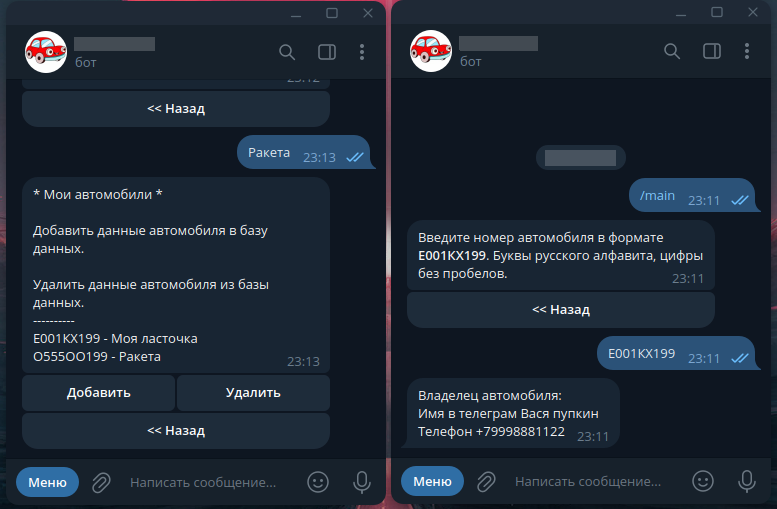
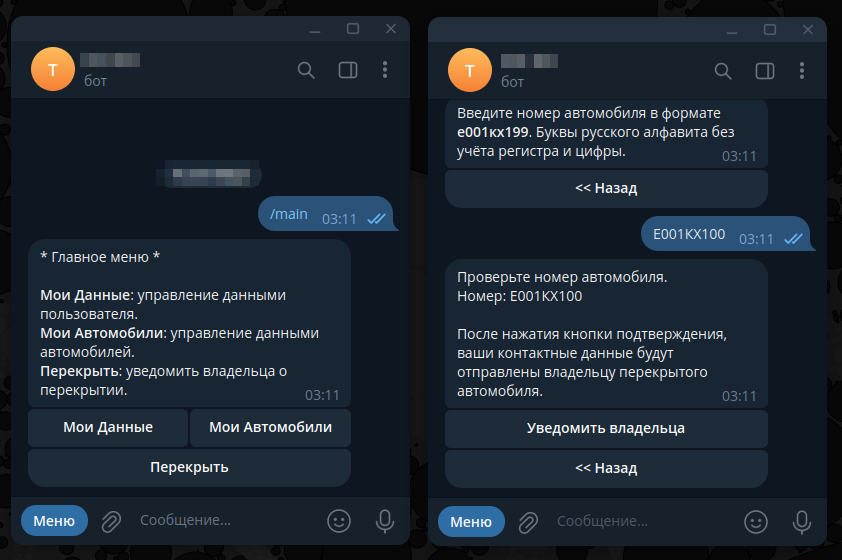
Dev (#46)
* feat: delete search by number

* docs:

* chore:

diff --git a/src/bot_car_number/presentation/misc/msg.py b/src/bot_car_number/presentation/misc/msg.py
@@ -15,7 +15,6 @@ MAIN_MSG = (
     f"\n{hbold(btn.USER_MENU_TXT)}: управление данными пользователя."
     f"\n{hbold(btn.AUTO_MENU_TXT)}: управление данными автомобилей."
     f"\n{hbold(btn.BLOCK_AUTO_TXT)}: уведомить владельца о перекрытии."
-    f"\n{hbold(btn.SEARCH_TXT)}: поиск владельца по номеру автомобиля."
 )
 MAIN_NO_DATA_MSG = (
     f"Для получения доступа, добавьте свои данные в меню - "
@@ -32,7 +31,6 @@ USER_CONTACT_MSG = (
 USER_WRONG_MSG = "Вы отправили данные другого пользователя!"
 USER_ADD_MSG = "Ваши контактные данные добавлены."
 USER_DELETE_MSG = "Ваши данные удалены."
-USER_NOT_FOUND_MSG = "Пользователь не найден."
 USER_DEL_CONFIRM_MSG = (
     "После нажатия кнопки подтверждения, ваши контактные данные и данные "
     "всех ваших автомобилей будут удалены.\n"
@@ -52,7 +50,7 @@ AUTO_ENTER_NUMBER_MSG = (
     "Буквы русского алфавита без учёта регистра и цифры."
 )
 AUTO_EXIST_MSG = (
-    "Автомобиль с таким номером уже существует!" f"\n\n{AUTO_ENTER_NUMBER_MSG}"
+    "Невозможно добавить автомобиль с таким номером!" f"\n\n{AUTO_ENTER_NUMBER_MSG}"
 )
 AUTO_FORMAT_ERR_MSG = (
     f"Формат номера не соответствует шаблону!\n\n{AUTO_ENTER_NUMBER_MSG}"
@@ -80,12 +78,11 @@ AUTO_NOT_FOUND_MSG = (
     "Автомобиль с таким номером не найден!" f"\n\n{AUTO_ENTER_NUMBER_MSG}"
 )
 AUTO_NOT_YOURS_MSG = (
-    "Невозможно удалить данный номер.\n" f"\n{AUTO_ENTER_NUMBER_MSG}"
+    "Невозможно удалить данный автомобиль.\n" f"\n{AUTO_ENTER_NUMBER_MSG}"
 )
 
 
 # SEARCH
-OWNER_DATA_MSG = "Контактные данные владельца."
 SEARCH_ACCESS_DENIED_MSG = (
     "Вы превысили количество запросов, повторите попытку позднее."
 )

diff --git a/src/bot_car_number/di/providers.py b/src/bot_car_number/di/providers.py
@@ -43,13 +43,14 @@ from bot_car_number.application.use_case.check_search_access import (
 )
 from bot_car_number.application.use_case.delete_auto import DeleteAuto
 from bot_car_number.application.use_case.delete_user import DeleteUser
+from bot_car_number.application.use_case.get_auto import GetAuto
 from bot_car_number.application.use_case.get_auto_for_delete import (
     GetAutoForDelete,
 )
-from bot_car_number.application.use_case.get_auto_owner import GetAutoOwner
 from bot_car_number.application.use_case.get_autos_by_user_id import (
     GetAutosByUserId,
 )
+from bot_car_number.application.use_case.get_user import GetUser
 from bot_car_number.application.use_case.get_user_by_telegram_id import (
     GetUserByTelegramId,
 )
@@ -115,6 +116,7 @@ def provide_db_gateways(provider: Provider) -> None:
 
 def provide_handlers_command(provider: Provider) -> None:
     provider.provide(source=AddUser, scope=Scope.REQUEST)
+    provider.provide(source=GetUser, scope=Scope.REQUEST)
     provider.provide(source=GetUserByTelegramId, scope=Scope.REQUEST)
     provider.provide(source=BlockUser, scope=Scope.REQUEST)
     provider.provide(source=DeleteUser, scope=Scope.REQUEST)
@@ -123,9 +125,9 @@ def provide_handlers_command(provider: Provider) -> None:
     provider.provide(source=CheckUserAutosCount, scope=Scope.REQUEST)
     provider.provide(source=AddAutoNumber, scope=Scope.REQUEST)
     provider.provide(source=AddAutoModel, scope=Scope.REQUEST)
+    provider.provide(source=GetAuto, scope=Scope.REQUEST)
     provider.provide(source=GetAutoForDelete, scope=Scope.REQUEST)
     provider.provide(source=AddAuto, scope=Scope.REQUEST)
     provider.provide(source=GetAutosByUserId, scope=Scope.REQUEST)
     provider.provide(source=DeleteAuto, scope=Scope.REQUEST)
-    provider.provide(source=GetAutoOwner, scope=Scope.REQUEST)
     provider.provide(source=CheckSearchAccess, scope=Scope.REQUEST)

diff --git a/src/bot_car_number/presentation/handlers/block_auto.py b/src/bot_car_number/presentation/handlers/block_auto.py
@@ -15,7 +15,8 @@ from bot_car_number.application.use_case.add_search_attempt import (
 from bot_car_number.application.use_case.check_search_access import (
     CheckSearchAccess,
 )
-from bot_car_number.application.use_case.get_auto_owner import GetAutoOwner
+from bot_car_number.application.use_case.get_auto import GetAuto
+from bot_car_number.application.use_case.get_user import GetUser
 from bot_car_number.presentation.keyboards.inline_keyboard import (
     back_kb,
     confirm_kb,
@@ -60,7 +61,8 @@ async def enter_number(
     state: FSMContext,
     user: UserDTO,
     check_search_access: FromDishka[CheckSearchAccess],
-    get_auto_owner: FromDishka[GetAutoOwner],
+    get_auto_by_number: FromDishka[GetAuto],
+    get_auto_owner: FromDishka[GetUser],
     add_search_attempt: FromDishka[AddSearchAttempt],
 ) -> None:
     if not await check_search_access(tg_id=user.tg_id):
@@ -72,7 +74,8 @@ async def enter_number(
         return
 
     try:
-        owner = await get_auto_owner(number=message.text)
+        auto = await get_auto_by_number(number=message.text)
+        owner = await get_auto_owner(user_id=auto.user_id)
     except AutoNumberValidationError:
         await message.answer(
             text=msg.AUTO_FORMAT_ERR_MSG,
@@ -90,7 +93,7 @@ async def enter_number(
         )
     else:
         await message.answer(
-            text=msg.AUTO_CHECK_NUMBER_MSG.format(message.text.upper()),
+            text=msg.AUTO_CHECK_NUMBER_MSG.format(auto.number),
             reply_markup=confirm_kb(
                 btn.BLOCK_AUTO_CONFIRM_TXT,
                 cmd.BLOCK_AUTO_CONFIRM,

diff --git a/src/bot_car_number/application/use_case/get_auto.py b/src/bot_car_number/application/use_case/get_auto.py
@@ -1,22 +1,18 @@
 import logging
 
 from bot_car_number.application.dto.auto import AutoDTO
-from bot_car_number.application.dto.user import UserDTO
-from bot_car_number.application.exceptions import (
-    AutoNotFoundError,
-    AutoOwnerError,
-)
+from bot_car_number.application.exceptions import AutoNotFoundError
 from bot_car_number.application.interfaces.auto import AutoGateway
 from bot_car_number.value_objects.auto_number import AutoNumber
 
 logger = logging.getLogger(__name__)
 
 
-class GetAutoForDelete:
+class GetAuto:
     def __init__(self, auto_gateway: AutoGateway) -> None:
         self.auto_gateway = auto_gateway
 
-    async def __call__(self, number: str, user: UserDTO) -> AutoDTO:
+    async def __call__(self, number: str) -> AutoDTO:
         auto_number = AutoNumber(value=number)
         auto = await self.auto_gateway.get_auto_by_number(
             number=auto_number.value
@@ -26,12 +22,5 @@ class GetAutoForDelete:
                 f"[UC] Auto not found | [auto_number: {auto_number.value}]"
             )
             raise AutoNotFoundError()
-
-        if user.id != auto.user_id:
-            logger.warning(
-                f"[UC] Access denied. Auto owner is not the current user | "
-                f"[user_id: {user.id}, auto_id: {auto.id}] "
-            )
-            raise AutoOwnerError()
 
         return auto

diff --git a/src/bot_car_number/adapters/postgres/gateways/auto.py b/src/bot_car_number/adapters/postgres/gateways/auto.py
@@ -28,7 +28,7 @@ class DatabaseAutoGateway(AutoGateway):
         result = await self.session.execute(stmt)
         await self.session.commit()
         auto_id = result.scalar_one()
-        logger.info(f"[DB] Add auto | [auto.id: {auto_id}]")
+        logger.info(f"[DB] Add auto | [auto_id: {auto_id}]")
 
     async def get_auto_by_number(self, number: str) -> AutoDTO | None:
         stmt = select(self.model).filter_by(number=number)
@@ -57,7 +57,7 @@ class DatabaseAutoGateway(AutoGateway):
             for auto in autos_data
         ]
         logger.info(
-            f"[DB] Get autos by user id | [user.id: {user_id}, "
+            f"[DB] Get autos by user id | [user_id: {user_id}, "
             f"len_auto_list: {len(autos)}]"
         )
         return autos
@@ -66,4 +66,4 @@ class DatabaseAutoGateway(AutoGateway):
         stmt = delete(self.model).filter_by(id=id)
         await self.session.execute(stmt)
         await self.session.commit()
-        logger.info(f"[DB] Delete auto | [auto.id: {id}]")
+        logger.info(f"[DB] Delete auto | [auto_id: {id}]")

diff --git a/src/bot_car_number/adapters/postgres/gateways/user.py b/src/bot_car_number/adapters/postgres/gateways/user.py
@@ -29,7 +29,7 @@ class DatabaseUserGateway(UserGateway):
         result = await self.session.execute(stmt)
         await self.session.commit()
         db_obj = result.scalar_one()
-        logger.info(f"[DB] Add user | [user.id: {db_obj}]")
+        logger.info(f"[DB] Add user | [user_id: {db_obj}]")
 
     async def get_user(self, id: int) -> UserDTO | None:
         stmt = select(self.model).filter_by(id=id)
@@ -69,4 +69,4 @@ class DatabaseUserGateway(UserGateway):
         stmt = delete(self.model).filter_by(id=id)
         await self.session.execute(stmt)
         await self.session.commit()
-        logger.info(f"[DB] Delete user | [id: {id}]")
+        logger.info(f"[DB] Delete user | [user_id: {id}]")

diff --git a/src/bot_car_number/application/use_case/get_user.py b/src/bot_car_number/application/use_case/get_user.py
@@ -1,0 +1,20 @@
+import logging
+
+from bot_car_number.application.dto.user import UserDTO
+from bot_car_number.application.exceptions import UserNotFoundError
+from bot_car_number.application.interfaces.user import UserGateway
+
+logger = logging.getLogger(__name__)
+
+
+class GetUser:
+    def __init__(self, user_gateway: UserGateway) -> None:
+        self.user_gateway = user_gateway
+
+    async def __call__(self, user_id: int) -> UserDTO:
+        user = await self.user_gateway.get_user(user_id)
+        if user is None:
+            logger.warning(f"[UC] User not found | [user_id: {user_id}]")
+            raise UserNotFoundError()
+
+        return user

diff --git a/src/bot_car_number/value_objects/auto_number.py b/src/bot_car_number/value_objects/auto_number.py
@@ -15,9 +15,11 @@ class AutoNumber:
     value: str = field(init=False)
 
     def __init__(self, value: str) -> None:
+        normalized_value = value.upper().replace(" ", "")
         pattern = re.compile(r"^[А-Я]\d{3}[А-Я]{2}\d{2,3}$", re.UNICODE)
-        normalized_value = value.upper()
         if not pattern.match(normalized_value):
-            logger.warning(f"[VO] Auto Number Validation Error | [{value}]")
+            logger.warning(
+                f"[VO] Auto Number Validation Error | [auto_number: {value}]"
+            )
             raise AutoNumberValidationError()
         object.__setattr__(self, "value", normalized_value)

diff --git a/src/bot_car_number/__main__.py b/src/bot_car_number/__main__.py
@@ -15,7 +15,6 @@ from bot_car_number.presentation.handlers.block_auto import (
     router as block_router,
 )
 from bot_car_number.presentation.handlers.menu import router as menu_router
-from bot_car_number.presentation.handlers.search import router as search_router
 from bot_car_number.presentation.handlers.user import router as user_router
 from bot_car_number.presentation.middlewares.private_check import (
     PrivateCheckMiddleware,
@@ -45,7 +44,6 @@ async def main():
         menu_router,
         user_router,
         auto_router,
-        search_router,
         block_router,
     )
 

diff --git a/src/bot_car_number/application/use_case/add_auto_number.py b/src/bot_car_number/application/use_case/add_auto_number.py
@@ -13,9 +13,11 @@ class AddAutoNumber:
 
     async def __call__(self, number: str) -> str:
         auto_number = AutoNumber(value=number)
-        if await self.auto_gateway.get_auto_by_number(number=auto_number.value):
+        if await self.auto_gateway.get_auto_by_number(
+            number=auto_number.value
+        ):
             logger.warning(
-                f"[UC] Auto already exists | [auto: {auto_number.value}]"
+                f"[UC] Auto already exists | [auto_number: {auto_number.value}]"
             )
             raise AutoAlreadyExistsError()
 

diff --git a/src/bot_car_number/presentation/keyboards/inline_keyboard.py b/src/bot_car_number/presentation/keyboards/inline_keyboard.py
@@ -17,12 +17,10 @@ def main_kb() -> InlineKeyboardMarkup:
     user_menu_btn = get_btn(btn.USER_MENU_TXT, cmd.USER)
     auto_menu_btn = get_btn(btn.AUTO_MENU_TXT, cmd.AUTO_MENU)
     block_auto_btn = get_btn(btn.BLOCK_AUTO_TXT, cmd.BLOCK_AUTO)
-    search_btn = get_btn(btn.SEARCH_TXT, cmd.SEARCH)
     return InlineKeyboardMarkup(
         inline_keyboard=[
             [user_menu_btn, auto_menu_btn],
             [block_auto_btn],
-            [search_btn],
         ]
     )
 

diff --git a/src/bot_car_number/presentation/handlers/auto.py b/src/bot_car_number/presentation/handlers/auto.py
@@ -199,12 +199,7 @@ async def enter_number_for_delete(
             text=msg.AUTO_FORMAT_ERR_MSG,
             reply_markup=BACK_KB,
         )
-    except AutoNotFoundError:
-        await message.answer(
-            text=msg.AUTO_NOT_FOUND_MSG,
-            reply_markup=BACK_KB,
-        )
-    except AutoOwnerError:
+    except (AutoOwnerError, AutoNotFoundError):
         await message.answer(
             text=msg.AUTO_NOT_YOURS_MSG,
             reply_markup=BACK_KB,
